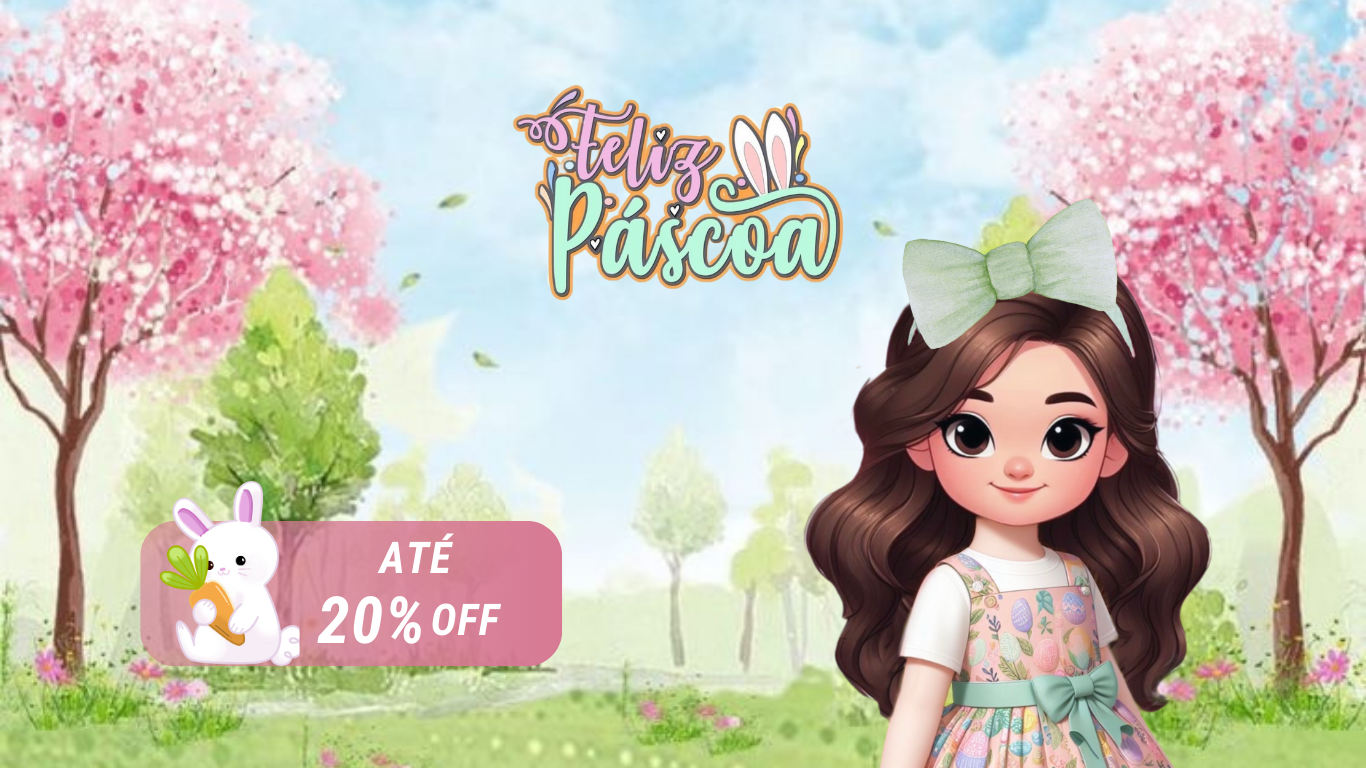
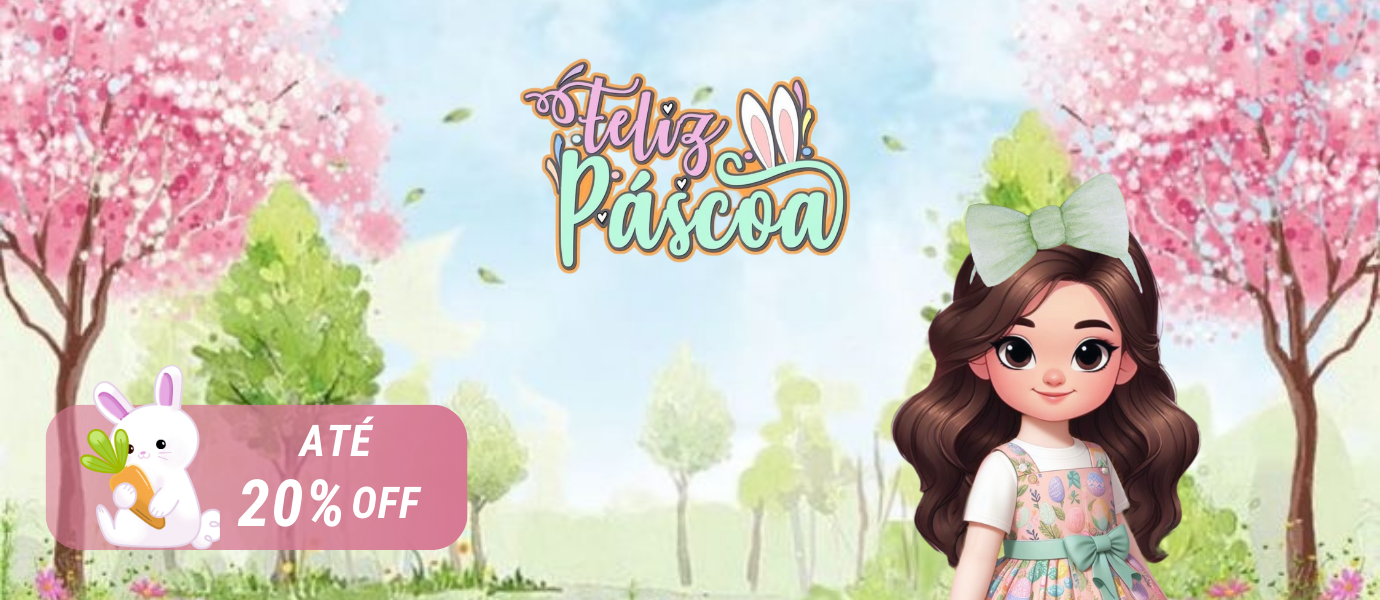
feat: criado passos iniciais da pagina de carrinho

diff --git a/src/components/Header/Drawer.tsx b/src/components/Header/Drawer.tsx
@@ -2,19 +2,21 @@
 
 import { colors } from "@/styles/colors";
 import { useState } from "react";
+
 import {
-  FaHeart,
   FaHome,
   FaInfo,
-  FaShoppingBasket,
-  FaShoppingCart,
   FaTimes,
+  FaHeart,
+  FaShoppingCart,
+  FaShoppingBasket,
 } from "react-icons/fa";
 import { FaGear } from "react-icons/fa6";
-import { GrCatalog } from "react-icons/gr";
-import { IoMdMenu } from "react-icons/io";
-import { DrawerOption } from "./DrawerOption";
 import { FiLogIn } from "react-icons/fi";
+import { IoMdMenu } from "react-icons/io";
+import { GrCatalog } from "react-icons/gr";
+
+import { DrawerOption } from "./DrawerOption";
 
 export function Drawer() {
   const [isOpen, setIsOpen] = useState(false);
@@ -51,42 +53,42 @@ export function Drawer() {
             </h4>
           </div>
 
-          <DrawerOption.Container>
+          <DrawerOption.Container href="/" onClick={toggleDrawer}>
             <DrawerOption.Icon icon={FaHome} />
             <DrawerOption.Title>Inicio</DrawerOption.Title>
           </DrawerOption.Container>
 
-          <DrawerOption.Container>
+          <DrawerOption.Container href="/produtos" onClick={toggleDrawer}>
             <DrawerOption.Icon icon={GrCatalog} />
-            <DrawerOption.Title>Catálog</DrawerOption.Title>
+            <DrawerOption.Title>Catálogo</DrawerOption.Title>
           </DrawerOption.Container>
 
-          <DrawerOption.Container>
+          <DrawerOption.Container href="/sobre" onClick={toggleDrawer}>
             <DrawerOption.Icon icon={FaInfo} />
             <DrawerOption.Title>Sobre nós</DrawerOption.Title>
           </DrawerOption.Container>
 
-          <DrawerOption.Container>
+          <DrawerOption.Container href="/pedidos" onClick={toggleDrawer}>
             <DrawerOption.Icon icon={FaShoppingBasket} />
             <DrawerOption.Title>Pedidos</DrawerOption.Title>
           </DrawerOption.Container>
 
-          <DrawerOption.Container>
+          <DrawerOption.Container href="carrinho" onClick={toggleDrawer}>
             <DrawerOption.Icon icon={FaShoppingCart} />
             <DrawerOption.Title>Carrinho</DrawerOption.Title>
           </DrawerOption.Container>
 
-          <DrawerOption.Container>
+          <DrawerOption.Container href="favoritos" onClick={toggleDrawer}>
             <DrawerOption.Icon icon={FaHeart} />
             <DrawerOption.Title>Favoritos</DrawerOption.Title>
           </DrawerOption.Container>
 
-          <DrawerOption.Container>
+          <DrawerOption.Container href="configuracoes" onClick={toggleDrawer}>
             <DrawerOption.Icon icon={FaGear} />
             <DrawerOption.Title>Configurações</DrawerOption.Title>
           </DrawerOption.Container>
 
-          <DrawerOption.Container>
+          <DrawerOption.Container href="/login" onClick={toggleDrawer}>
             <DrawerOption.Icon icon={FiLogIn} />
             <DrawerOption.Title>Faça Login</DrawerOption.Title>
           </DrawerOption.Container>

diff --git a/src/app/carrinho/page.tsx b/src/app/carrinho/page.tsx
@@ -1,0 +1,37 @@
+import Link from "next/link";
+
+export default function Cart() {
+  return (
+    <div className="pb-10 min-h-80-vh border-b-2 border-b-text-900 border-opacity-50 px-4">
+      <h1 className="w-full mt-6 mb-6 text-center font-bold text-3xl">
+        Carrinho de compras
+      </h1>
+
+      <div className="w-full max-w-1380 mx-auto flex flex-col gap-4 items-center">
+        <h2 className="text-2xl font-medium">Carrinho vazio!</h2>
+
+        <p className="text-lg text-center">
+          Você ainda não está logado(a) em nossa plataforma.
+        </p>
+
+        <p className="text-lg text-center">
+          Que tal fazer o seu login para aproveitar as nossas ofertas?
+        </p>
+
+        <Link
+          className="w-44 h-12 flex items-center justify-center rounded-md bg-pink-900 text-white font-semibold text-lg hover:opacity-80"
+          href="/login"
+        >
+          Entrar
+        </Link>
+
+        <Link
+          className="w-44 h-12 flex items-center justify-center rounded-md bg-white text-text-900 font-medium text-lg border-2 border-pink-900 hover:bg-pink-900 hover:text-white"
+          href="/cadastro"
+        >
+          Inscrever-se
+        </Link>
+      </div>
+    </div>
+  );
+}

diff --git a/src/components/Banners/index.tsx b/src/components/Banners/index.tsx
@@ -1,8 +1,8 @@
 import { Carousel } from "./Carousel";
 
-import bannerOne from "../../../public/home-pascoa.png";
-import bannerTwo from "../../../public/home-bem-vindo.png";
-import bannerThree from "../../../public/home-pascoa.png";
+import bannerBoasVindas from "../../../public/home-boas-vindas.png";
+import bannerPascoa from "../../../public/home-pascoa.png";
+import bannerHomePrazos from "../../../public/home-prazos.png";
 
 import { StaticImageData } from "next/image";
 
@@ -12,9 +12,9 @@ interface Image {
 }
 
 const images: Image[] = [
-  { image: bannerOne, name: "Banner Tema Páscoa" },
-  { image: bannerTwo, name: "Banner Tema Páscoa 1" },
-  { image: bannerThree, name: "Banner Tema Páscoa 2" },
+  { image: bannerBoasVindas, name: "Banner de Boas Vindas" },
+  { image: bannerPascoa, name: "Banner Tema Páscoa" },
+  { image: bannerHomePrazos, name: "Banner Prazos de envio" },
 ];
 
 export function TopBanners() {

diff --git a/src/components/Header/DrawerOption.tsx b/src/components/Header/DrawerOption.tsx
@@ -1,12 +1,28 @@
-import { colors } from "@/styles/colors";
+import Link from "next/link";
+
 import { ReactNode } from "react";
+
+import { colors } from "@/styles/colors";
+
 import { IconType } from "react-icons";
 
-function DrawerOptionContainer({ children }: { children: ReactNode }) {
+function DrawerOptionContainer({
+  href,
+  onClick = () => {},
+  children,
+}: {
+  href: string;
+  onClick: () => void;
+  children: ReactNode;
+}) {
   return (
-    <div className="w-full flex items-center gap-2 shadow-shadow_white p-2 rounded-md opacity-80 hover:opacity-100 cursor-pointer">
+    <Link
+      className="w-full flex items-center gap-2 shadow-shadow_white p-2 rounded-md opacity-80 hover:opacity-100 cursor-pointer"
+      href={href}
+      onClick={onClick}
+    >
       {children}
-    </div>
+    </Link>
   );
 }
 

diff --git a/src/components/NavigationCatalog/index.tsx b/src/components/NavigationCatalog/index.tsx
@@ -8,6 +8,7 @@ import {
 } from "react-icons/fa";
 
 import { NavOption } from "./NavOptions";
+import Link from "next/link";
 
 export function NavigationCatalog() {
   return (
@@ -43,9 +44,12 @@ export function NavigationCatalog() {
           Conheça o nosso catálogo
         </h2>
 
-        <button className="w-60 h-14 flex items-center justify-center gap-3 bg-white font-semibold text-xl rounded-lg shadow-default cursor-pointer hover:opacity-75">
+        <Link
+          className="w-60 h-14 flex items-center justify-center gap-3 bg-white font-semibold text-xl rounded-lg shadow-default cursor-pointer hover:opacity-75"
+          href="/produtos"
+        >
           VER TUDO <FaArrowRight color={colors.text[900]} size="1.5rem" />
-        </button>
+        </Link>
       </div>
     </section>
   );

diff --git a/src/components/Footer/index.tsx b/src/components/Footer/index.tsx
@@ -8,9 +8,10 @@ import imageMandaBem from "../../../public/manda-bem.png";
 import imageCorreios from "../../../public/correios.png";
 
 import { FaInstagram, FaWhatsapp } from "react-icons/fa";
+
 import { FooterItem } from "./FooterItem";
-import { FooterContent } from "./FooterContent";
 import { FooterLink } from "./FooterLink";
+import { FooterContent } from "./FooterContent";
 
 const linkWhatsapp: string = "https://wa.me/message/TYVKBL6PIX7TL1";
 const linkInstagram: string =

diff --git a/src/components/Header/index.tsx b/src/components/Header/index.tsx
@@ -1,12 +1,14 @@
+import Image from "next/image";
+
+import { Fragment } from "react";
+
 import { colors } from "@/styles/colors";
+
 import { FaSearch, FaShoppingCart } from "react-icons/fa";
 
 import logo from "../../../public/logo-header.png";
-import Image from "next/image";
 
 import { Input } from "../Input";
-
-import { Fragment } from "react";
 import { Drawer } from "./Drawer";
 
 export function Header() {
